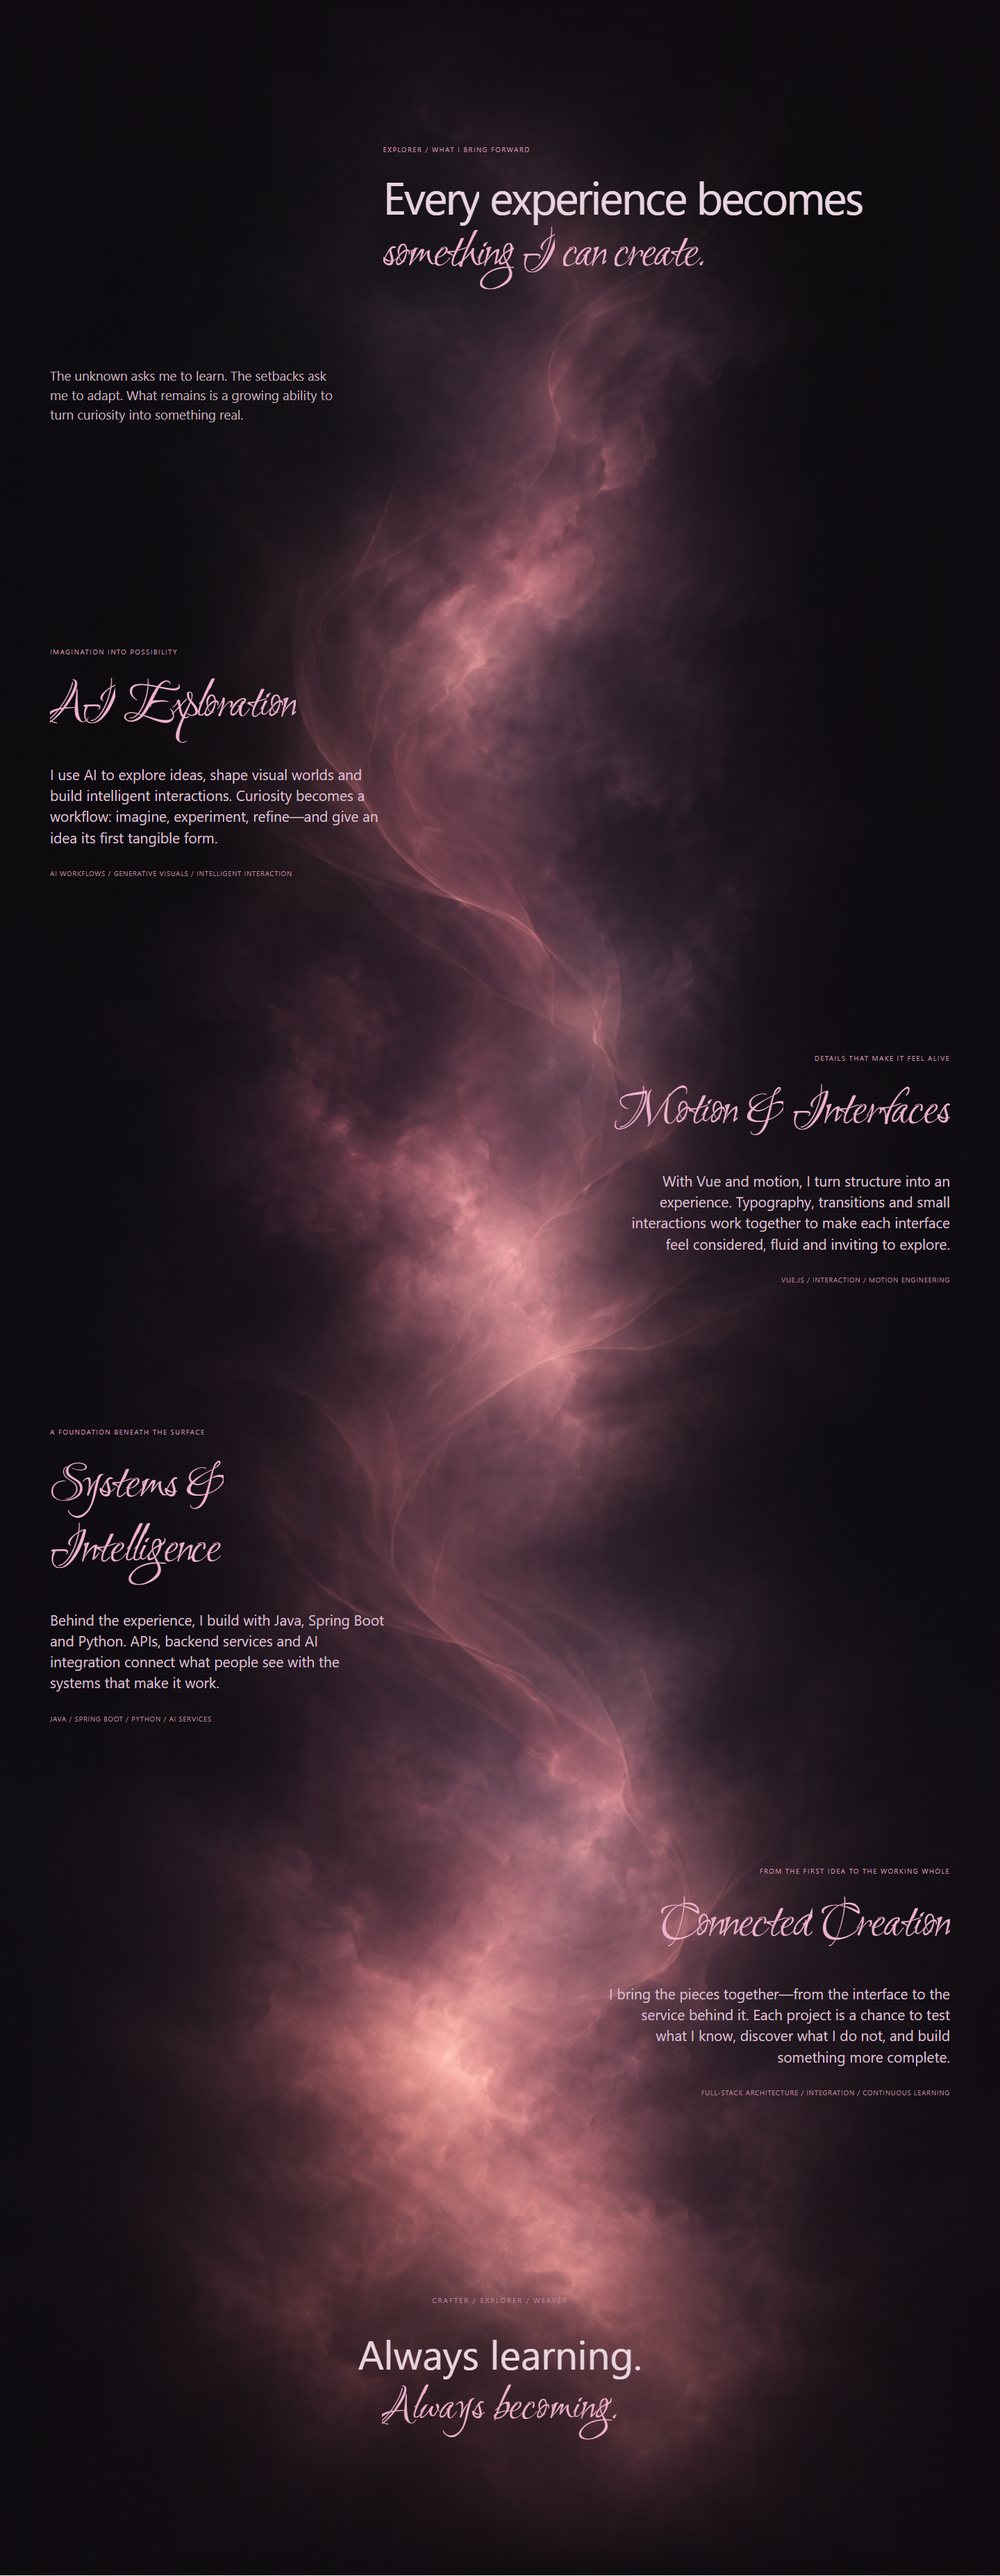
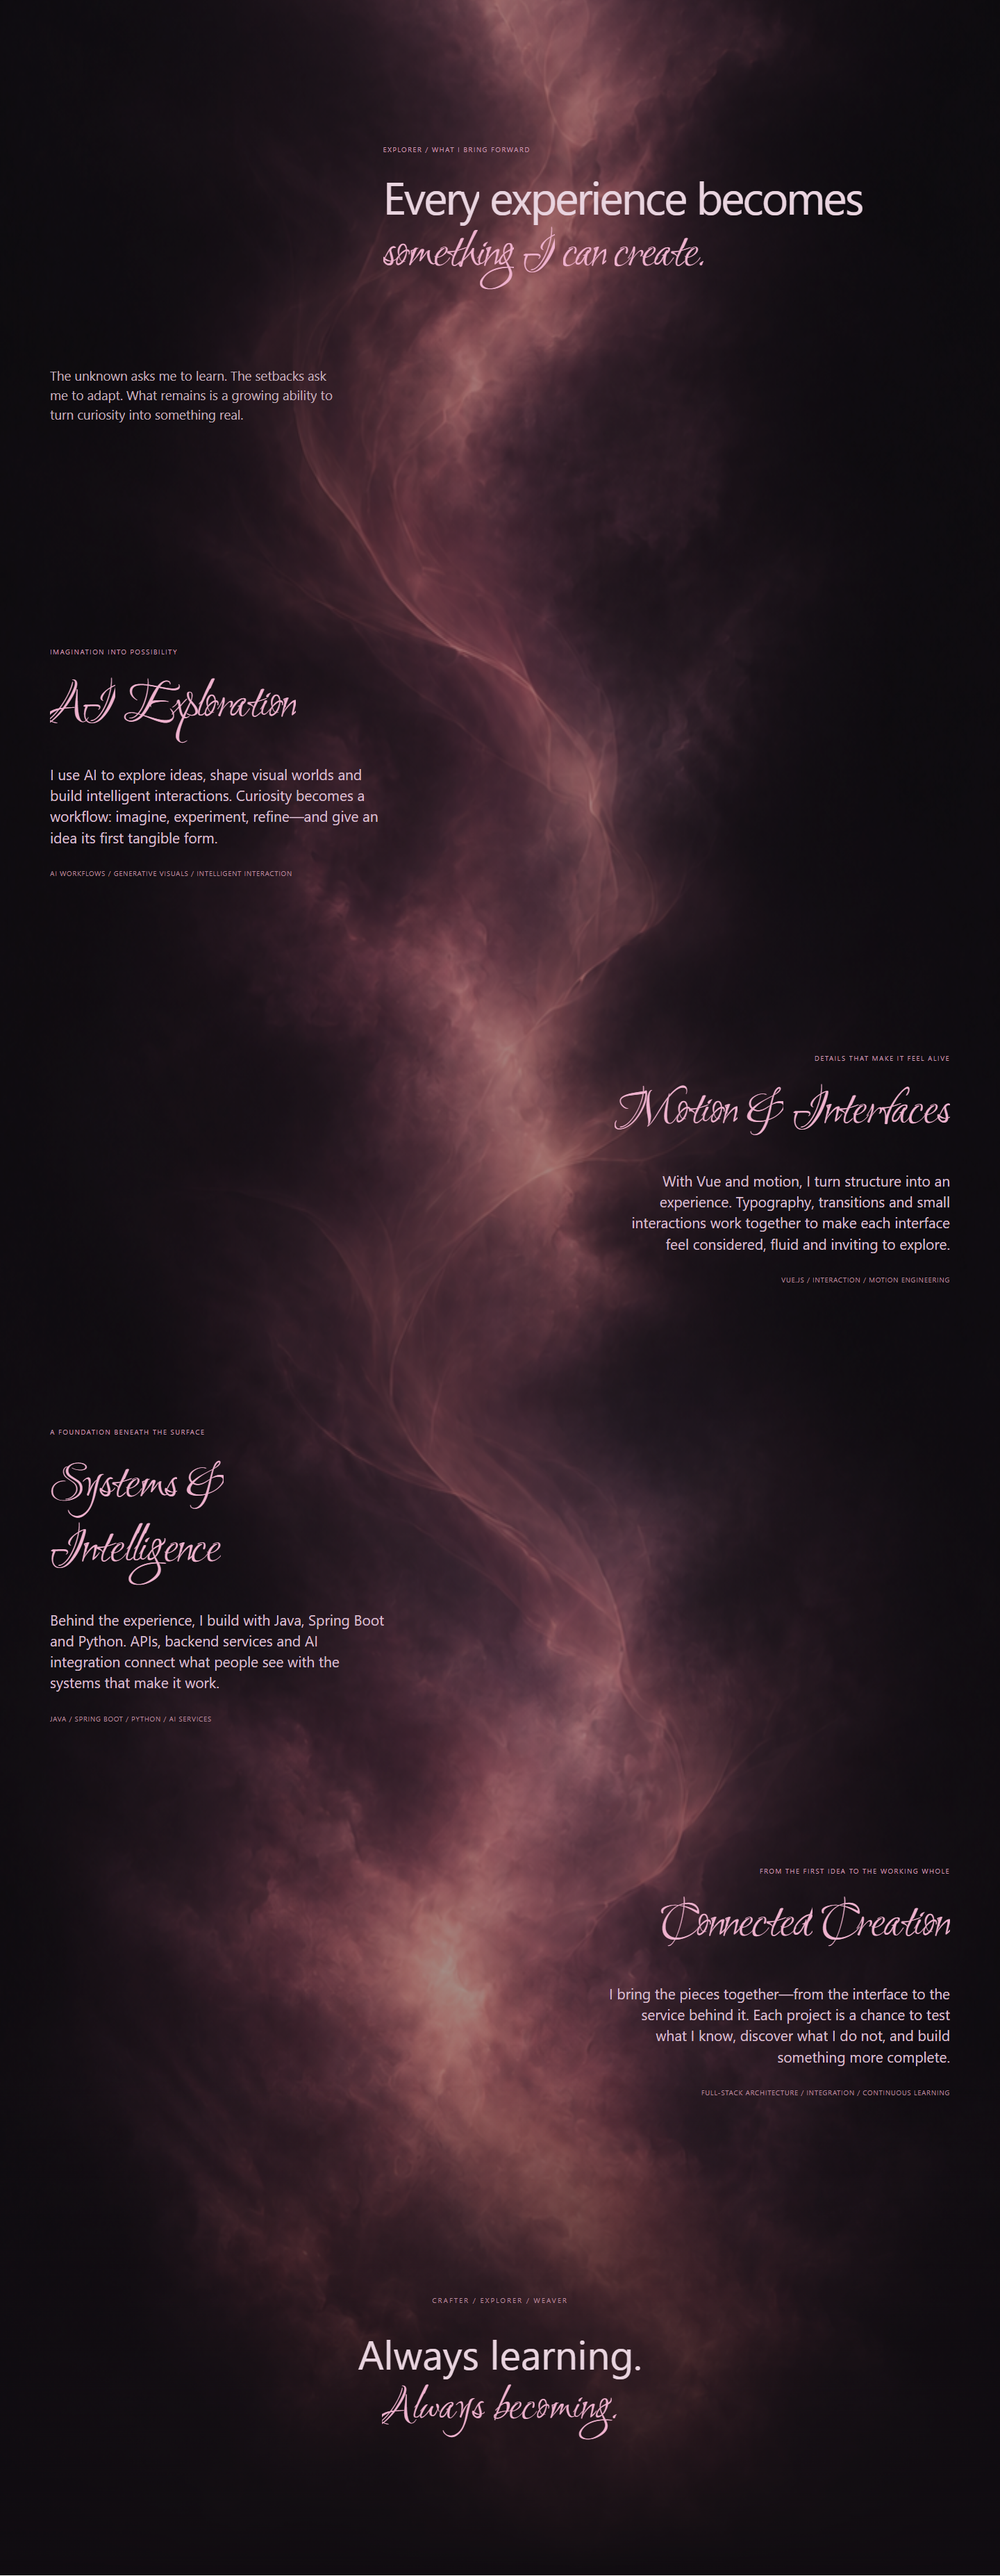
Unify dawn screen and capability scroll under a continuous background

Changed region(s): [[0.1875, 0.0, 0.7812, 0.9614], [0.6562, 0.2791, 0.6875, 0.3101]]

diff --git a/site/src/components/stage/stage-journey.css b/site/src/components/stage/stage-journey.css
@@ -1,11 +1,9 @@
-.stage-journey{position:relative;z-index:4;isolation:isolate;overflow:clip;background:#100c11;color:#e9d4df;padding:15svh 5vw 18svh}
-.journey-light{position:absolute;inset:0;z-index:-2;background:linear-gradient(#100c11 0%,transparent 12%,transparent 88%,#100c11 100%),url('/images/stage/explorer/dawn-long-v1.png') center/100% 100% no-repeat,radial-gradient(ellipse at 50% 50%,#65364c70,transparent 65%);pointer-events:none}
-.stage-journey:after{content:'';position:absolute;inset:0;z-index:-1;pointer-events:none;background:linear-gradient(90deg,#100c1160,transparent 36%,transparent 64%,#100c1160)}
+.stage-journey{position:relative;z-index:4;isolation:isolate;overflow:clip;background:transparent;color:#e9d4df;padding:15svh 5vw 18svh}
 .journey-intro{min-height:75svh;position:relative;padding-top:8svh}.journey-eyebrow{font-size:10px;letter-spacing:.14em;line-height:1.6;color:#c99ab1;margin:0 0 24px}.journey-intro>.journey-eyebrow{margin-left:37%}
 .journey-intro h2{font-size:clamp(33px,4.5vw,78px);font-weight:400;line-height:1.1;letter-spacing:-.04em;margin:0 0 0 37%;max-width:63%}.stage-journey em{font-family:StageLoadingScript,cursive;font-style:normal;font-weight:400;color:#efb2ce;font-size:1.2em}
 .journey-intro-note{margin:13svh 0 0;width:32%;font-size:clamp(14px,1.3vw,21px);line-height:1.5;color:#c5b0be}
 .journey-chapter{min-height:65svh;display:flex;align-items:center;position:relative}.journey-chapter-copy{width:38%;max-width:600px}.journey-chapter:nth-child(even){justify-content:flex-end;text-align:right}.journey-chapter h3{font-family:StageLoadingScript,cursive;font-size:clamp(48px,5.4vw,94px);font-weight:400;color:#efb2ce;line-height:1.2;margin:0 0 36px;letter-spacing:-.025em}.journey-description{font-size:clamp(16px,1.45vw,24px);line-height:1.45;color:#d9bfce;margin:0 0 28px}.journey-tags{font-size:10px;line-height:1.8;letter-spacing:.07em;color:#b88a9f}
 .journey-word-mask{display:inline-block;overflow:hidden;vertical-align:bottom;padding-bottom:.12em;margin-bottom:-.12em}.journey-word-mask>[data-journey-word]{display:inline-block;will-change:transform,opacity,filter}
 .journey-end{padding:16svh 0 0;text-align:center}.journey-end>p{font-size:10px;letter-spacing:.2em;color:#b88a9f}.journey-end h3{font-size:clamp(36px,4vw,65px);font-weight:400;line-height:1.2;margin:35px 0}
-@media(max-width:700px){.stage-journey{padding:10svh 7vw 14svh}.journey-light{background-size:100% 100%,auto 100%;opacity:.65}.journey-intro{min-height:65svh}.journey-intro>.journey-eyebrow{margin-left:0}.journey-intro h2{margin:0;max-width:100%;font-size:37px}.journey-intro-note{width:85%;margin-top:10svh;font-size:15px}.journey-chapter{min-height:65svh}.journey-chapter-copy{width:90%}.journey-chapter h3{font-size:49px;margin-bottom:26px}.journey-description{font-size:16px;line-height:1.55}.journey-tags{font-size:9px}.journey-eyebrow{font-size:9px}.journey-chapter:nth-child(even) .journey-chapter-copy{margin-left:10%}}
+@media(max-width:700px){.stage-journey{padding:10svh 7vw 14svh}.journey-intro{min-height:65svh}.journey-intro>.journey-eyebrow{margin-left:0}.journey-intro h2{margin:0;max-width:100%;font-size:37px}.journey-intro-note{width:85%;margin-top:10svh;font-size:15px}.journey-chapter{min-height:65svh}.journey-chapter-copy{width:90%}.journey-chapter h3{font-size:49px;margin-bottom:26px}.journey-description{font-size:16px;line-height:1.55}.journey-tags{font-size:9px}.journey-eyebrow{font-size:9px}.journey-chapter:nth-child(even) .journey-chapter-copy{margin-left:10%}}
 @media(prefers-reduced-motion:reduce){.journey-word-mask>[data-journey-word]{will-change:auto}}

diff --git a/site/src/components/stage/stage-explorer.css b/site/src/components/stage/stage-explorer.css
@@ -5,9 +5,16 @@
 .explorer-frame{position:absolute;width:36vw;height:45svh;overflow:hidden;background:#24101f}.explorer-atmosphere{position:absolute;inset:0;background:radial-gradient(ellipse at 50% 30%,#af638270,transparent 60%),linear-gradient(#2d1529,#100c11)}
 .explorer-frame video{position:absolute;width:100%;height:100%;object-fit:cover}.explorer-shade{position:absolute;inset:0;background:#09070b;opacity:0}
 .explorer-fall-copy,.explorer-rise-copy{position:absolute;z-index:3;opacity:0;text-align:center;padding:0 6vw;pointer-events:none}.explorer-fall-copy h3,.explorer-rise-copy h3{font-size:clamp(36px,5.5vw,88px);font-weight:400;line-height:1.05;letter-spacing:-.04em;margin:20px 0 30px}.explorer-fall-copy p,.explorer-rise-copy p{font-size:clamp(14px,1.3vw,20px);line-height:1.6;color:#c5b3bf}
-.explorer-dawn{position:absolute;inset:0;z-index:2;opacity:0;transform:scale(.8);background:radial-gradient(ellipse at 50% 110%,#e9b9b775,transparent 48%),radial-gradient(ellipse at 50% 105%,#efa8c22b,transparent 70%);pointer-events:none}
+.explorer-dawn{position:absolute;inset:0;z-index:2;opacity:0;transform:scale(.8);pointer-events:none}
 @media(prefers-reduced-motion:no-preference){.stage-explorer{padding-top:0}.explorer-viewport{position:sticky;top:0}.explorer-film-track{height:650svh;position:relative}}
 @media(prefers-reduced-motion:reduce){.explorer-viewport{height:auto;min-height:100svh;display:flex;flex-direction:column;gap:50px;padding:90px 6vw}.explorer-heading,.explorer-fall-copy,.explorer-rise-copy{position:relative;inset:auto;opacity:1;padding:0}.explorer-frame{display:none}.explorer-dawn{opacity:.5}.explorer-capabilities{padding-top:60px}}
 @media(max-width:700px){.explorer-heading{top:14%}.explorer-frame{min-width:66vw}.explorer-heading h2{font-size:44px}.explorer-capabilities{padding:80px 6vw 120px}.explorer-capabilities>div{grid-template-columns:1fr}.explorer-capabilities h3{margin-bottom:45px}}
 
 html[data-stage-section=explorer] body:has(.stage-page) .site-header{color:#f7edf2;--ink:#f7edf2;--muted:#c4a6b6;--line:#735464;--surface:#30252e;background:linear-gradient(#100c11de,transparent)}
+
+/* One physical image spans the final dawn viewport and every following chapter. */
+.explorer-continuous-light{position:absolute;top:550svh;bottom:0;left:0;right:0;z-index:0;opacity:.62;pointer-events:none;background:linear-gradient(transparent 85%,#100c11),url('/images/stage/explorer/dawn-continuous-v2.png') center/100% 100% no-repeat}
+.explorer-film-track{position:relative;z-index:1}
+@media(prefers-reduced-motion:reduce){.explorer-continuous-light{top:0}.explorer-viewport{z-index:1}}
+
+@media(max-width:700px){.explorer-continuous-light{background-size:100% 100%,auto 100%;opacity:.55}}

diff --git a/site/tests/stage-journey.spec.ts b/site/tests/stage-journey.spec.ts
@@ -35,3 +35,21 @@ test('long composition is readable in reduced motion on desktop and mobile', asy
   expect(await page.evaluate(() => document.documentElement.scrollWidth <= innerWidth)).toBe(true);
   await journey.screenshot({ path: '../work/stage-journey-mobile-long.png', style: '.site-header,.stage-ledger{visibility:hidden!important}' });
 });
+
+test('one dawn background spans the screen-to-long-scroll boundary on desktop and mobile', async ({ page }) => {
+  await page.goto('/stage');
+  await expect(page.locator('.stage-portfolio')).toHaveAttribute('data-motion-ready', 'true', { timeout: 12000 });
+  for (const width of [1440, 390]) {
+    await page.setViewportSize({ width, height: width === 1440 ? 900 : 844 });
+    const journey = page.locator('.stage-journey');
+    await journey.evaluate(el => scrollTo({ top: el.getBoundingClientRect().top + scrollY - innerHeight * .45, behavior: 'instant' }));
+    await expect.poll(() => page.locator('.explorer-frame').evaluate(el => Number(getComputedStyle(el).opacity))).toBeLessThan(.01);
+    const seam = await journey.evaluate(el => el.getBoundingClientRect().top);
+    const background = await page.locator('.explorer-continuous-light').boundingBox();
+    expect(background!.y).toBeLessThan(seam - 100);
+    expect(background!.y + background!.height).toBeGreaterThan(seam + 100);
+    await expect(journey).toHaveCSS('background-color', 'rgba(0, 0, 0, 0)');
+    await expect(page.locator('.explorer-dawn')).toHaveCSS('background-image', 'none');
+    await page.screenshot({ path: `../work/dawn-junction-${width}.png`, style: '.site-header,.stage-ledger{visibility:hidden!important}' });
+  }
+});

diff --git a/site/src/components/stage/StageExplorer.tsx b/site/src/components/stage/StageExplorer.tsx
@@ -38,6 +38,7 @@ export function StageExplorer({ enabled }: { enabled: boolean }) {
         .fromTo(select('.explorer-fall-copy'), { opacity: 0, y: 35 }, { opacity: 1, y: 0, duration: 1 }, 4.7)
         .to(select('.explorer-fall-copy'), { opacity: 0, y: -30, duration: .8 }, 7)
         .to(select('.explorer-dawn'), { opacity: 1, scale: 1, duration: 2 }, 7.8)
+        .to(select('.explorer-frame'), { opacity: 0, duration: 1.6, ease: 'none' }, 7.8)
         .fromTo(select('.explorer-rise-copy'), { opacity: 0, y: 45 }, { opacity: 1, y: 0, duration: 1.4 }, 8.4)
         .to({}, { duration: 1 }, 9.8);
       timeline.eventCallback('onUpdate', () => {
@@ -49,6 +50,7 @@ export function StageExplorer({ enabled }: { enabled: boolean }) {
     return () => { zone.disconnect(); media.revert(); };
   }, [enabled]);
   return <section className="stage-explorer" id="stage-explorer" ref={root} aria-labelledby="explorer-title" data-film={explorerFilm ? 'connected' : 'awaiting-film'}>
+    <div className="explorer-continuous-light" aria-hidden="true" />
     <div className="explorer-film-track"><div className="explorer-viewport">
       <header className="explorer-heading"><p>EXPLORER</p><h2 id="explorer-title">Beyond the <em>known.</em></h2></header>
       <div className="explorer-frame" aria-hidden="true">

diff --git a/site/src/components/stage/StageJourney.tsx b/site/src/components/stage/StageJourney.tsx
@@ -23,13 +23,11 @@ export function StageJourney({ enabled }: { enabled: boolean }) {
           scrollTrigger: { trigger: block, start: 'top 92%', end: 'top 48%', scrub: .6 },
         });
       });
-      gsap.fromTo(host.querySelector('.journey-light'), { opacity: .5 }, { opacity: 1, ease: 'none', scrollTrigger: { trigger: host, start: 'top bottom', end: 'bottom bottom', scrub: .8 } });
     }, host);
     return () => media.revert();
   }, [enabled]);
   const words = (text: string) => text.split(/(\s+)/).map((word, index) => /^\s+$/.test(word) ? word : <span className="journey-word-mask" key={index}><span data-journey-word>{word}</span></span>);
   return <section ref={root} className="stage-journey" aria-labelledby="journey-title" id="stage-journey">
-    <div className="journey-light" aria-hidden="true" />
     <header className="journey-intro">
       <p className="journey-eyebrow">EXPLORER / WHAT I BRING FORWARD</p>
       <h2 id="journey-title" data-journey-reveal>{words('Every experience becomes')}<br /><em>{words('something I can create.')}</em></h2>

diff --git a/docs/design/曙光能力长卷.md b/docs/design/曙光能力长卷.md
@@ -24,3 +24,13 @@ Create a very tall vertical seamless-feeling atmospheric background plate for a 
 
 ## 验证
 Next.js生产构建通过。三项检查通过：前段画框/渐暗/曙光可逆滚动；长卷左右列及逐词动画回退；桌面与手机减少动态模式可读且无水平溢出。检查整页截图时隐藏固定导航与底栏，避免它们出现在长截图中部；实际页面仍保留它们。
+
+## 2026-10-18 曙光屏与长卷连续修订
+用户截图中的横缝来自两个独立背景：explorer-dawn 的径向光晕在视口底部被裁切，而 journey-light 的顶部渐变又重新变黑。本次用内置 image_gen 生成包含上屏曙光的长背景 dawn-continuous-v2.png，并将唯一背景层放在 StageExplorer 中，从电影轨道最后一屏（550svh）一直覆盖至长卷底部。StageJourney 改透明，移除自己的图片/顶部淡黑重置和背景透明度动画。电影画框在曙光段淡出，露出共享背景；滚动范围仍为独立650svh轨道。
+
+背景在桌面以.62透明度显示，手机以.55并按高度裁切，保持轻微曙光及文字对比。减少动态模式背景从整段顶部开始，文案静态可读。
+
+生成提示词：
+Create a NEW single continuous very tall 1:3 portrait BACKGROUND ONLY, combining an upper dawn opening with the rose mist ribbon extending down below, to eliminate the hard horizontal seam visible in second reference screenshot. First reference image is the texture/palette reference for the lower long background. Second reference screenshot is only context showing the broken transition: DO NOT include ANY text, browser UI, navigation, logos, panels or seam. Top 22% of the new image is a broad diffuse warm dusty-rose/plum dawn glow centered horizontally, with a dark upper edge and quiet black edges; this upper section is for a full-screen introductory sentence. The same glow narrows gradually and organically between 15% and 35% height into a softly winding central vertical current of pink-lavender mist, continuing uninterrupted through the remaining length of the image in the style of first reference. No stripe across the image, no dark gap between broad glow and narrow ribbon, no repeated bands. Outer left and right 30% remain near-black plum #100c11 with gentle low-contrast haze so website paragraphs are readable. Elegant cinematic airy volumetric cloud texture, restrained dusty rose and soft mauve, delicate pearl filaments, very subtle grain. Lower half may become a little warmer but never bright white. No solid laser beam, no objects, stars, people, landscapes, planets or butterflies. A continuous composition intended to span one upper screen AND four further screens as a SINGLE background, not two separate pictures. Top-to-bottom tonal continuity is the priority.
+
+验证：生产构建通过。补充桌面/手机边界检查，确认共享背景跨过两侧边界、下方容器透明、旧径向背景已移除，并人工查看衔接截图。完整四项检查包括电影可逆滚动、长卷左右/回退、手机无溢出和背景跨段。
